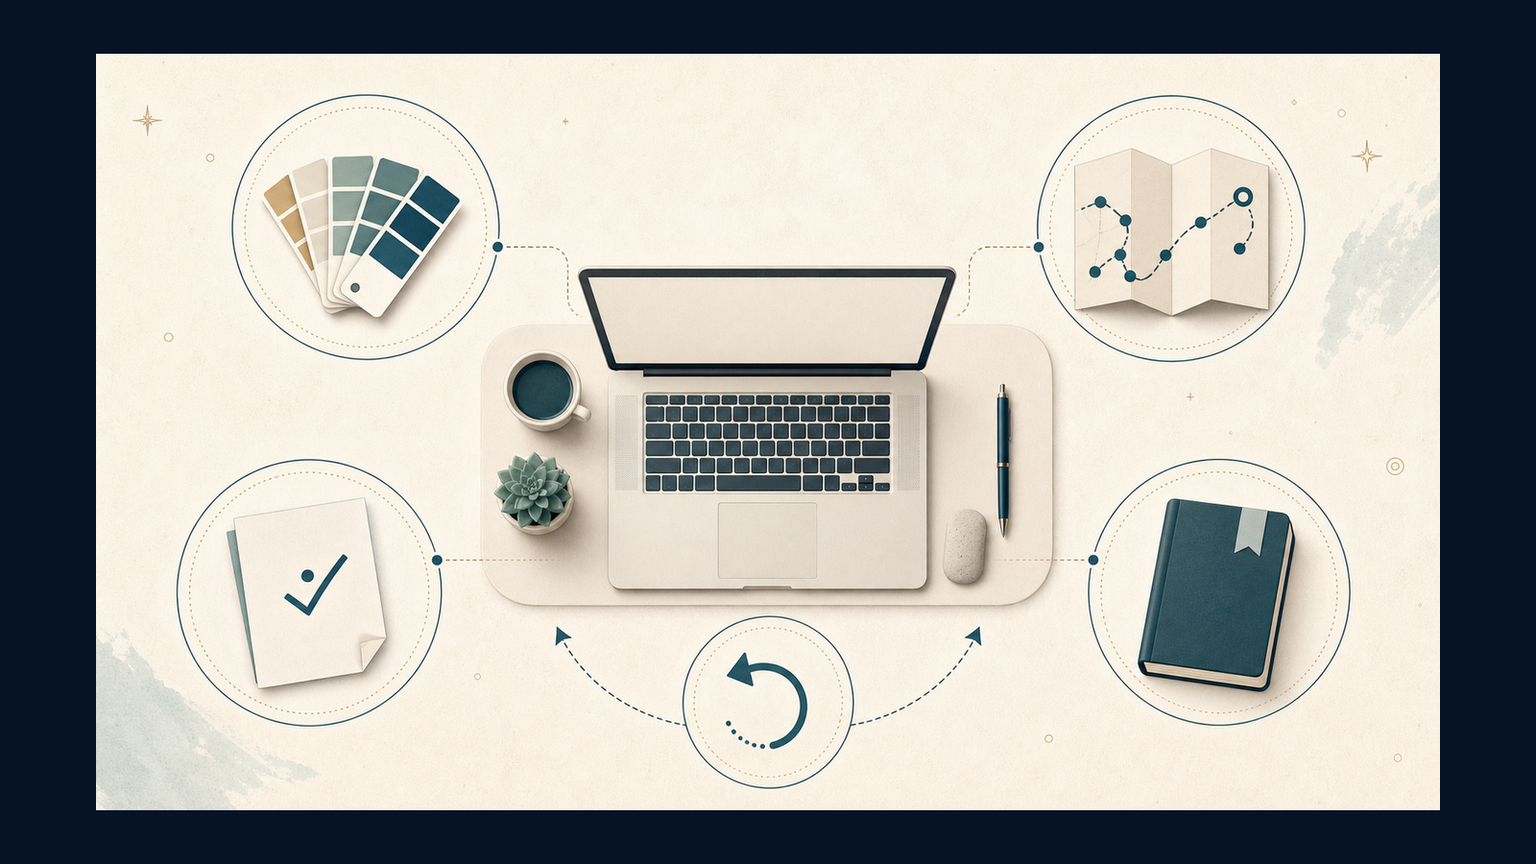
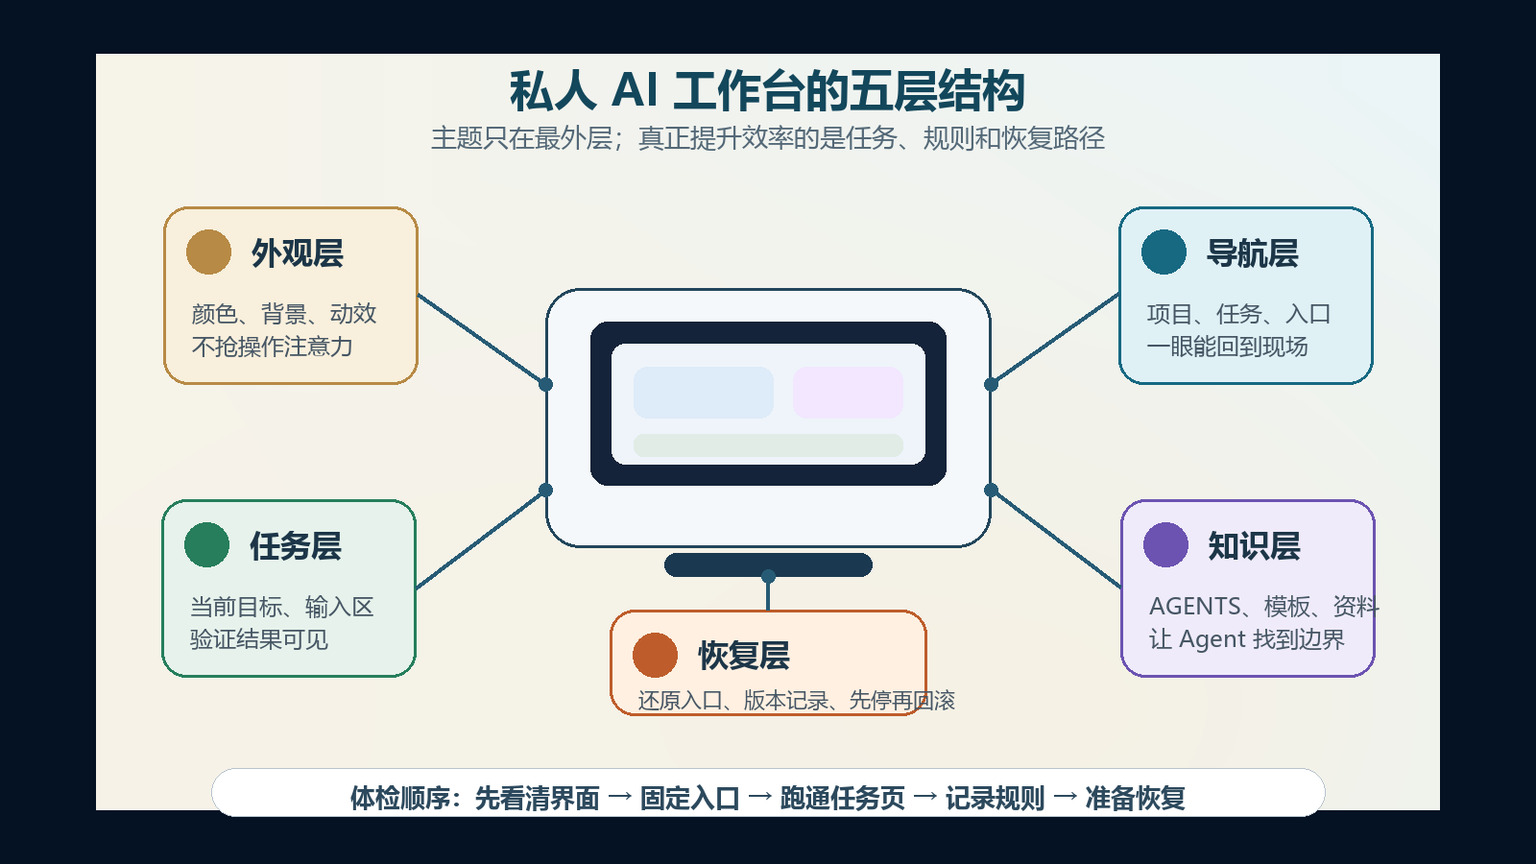
revise Codex personal workspace article

diff --git a/01-工具教程/13-给 Codex 换了一套私人工作台：AI Coding 正在进入个性化时代.md b/01-工具教程/13-给 Codex 换了一套私人工作台：AI Coding 正在进入个性化时代.md
@@ -1,114 +1,137 @@
-> 一句话结论：私人工作台不是把 Codex 变得更花哨，而是让项目、输入、任务状态和恢复入口都更容易找到；皮肤只应服务这件事。
+> 一句话结论：给 Codex 换主题，表面是在换皮肤，本质是在重新整理你的 AI 工作台；真正值得保留的不是好看的背景，而是任务更容易继续、规则更容易找到、异常更容易恢复。
 
-每天反复打开 Codex 后，侧栏、任务页和输入框会慢慢变成工作节奏的一部分。真正拖慢人的，往往不是少一个功能，而是找不到刚才的项目、看不清当前状态，或者担心一次主题更新会打断手上的任务。
+如果你每天都要打开 Codex，界面会慢慢变成工作习惯的一部分。
 
-这也是 AI 工具需要私人空间的原因。它不只是你的视觉偏好，还应该帮你保留注意力、减少切换，并在异常时回到可靠状态。
+最开始你可能只在意它好不好看。用久之后，真正影响效率的会变成另外几件事：项目入口是不是清楚，输入框是不是顺手，当前任务有没有被打断，出问题时能不能回到默认状态。
 
-![个性化工作台的主题视觉示例](<../08-素材库/图片/正文插图/13-给 Codex 换了一套私人工作台：AI Coding 正在进入个性化时代-正文插图04.png>)
-
-*图 1：主题视觉只是一层，核心仍是任务可见、输入顺手和恢复可控。*
-
-## 一、故事开场：AI 工具为什么需要私人空间
-
-同一个 Codex 界面，有人打开后马上能继续昨天的任务，有人却要先找项目、找输入框、找上下文。差别不在于谁的背景图更漂亮，而在于工作台有没有把高频动作放在清楚、稳定的位置。
-
-私人空间的价值可以落在四件小事上：
-
-1. 一眼定位： 当前项目、任务状态、输入区域和发送入口不需要反复寻找。
-2. 减少干扰： 背景、颜色和动画不抢正文与操作区的注意力。
-3. 保留上下文： 常用项目、任务模板和规则入口有固定位置。
-4. 随时恢复： 主题异常或客户端升级后，能先回到原始界面，再继续排查。
-
-如果一套皮肤不能让这四件事更轻松，它再适合截图，也未必适合日常使用。
-
-## 二、一个趋势：AI Coding 进入个性化时代
-
-AI Coding 的个性化，不该只理解成颜色、壁纸和字体。真正值得投入的是把工作环境调成适合自己推进任务的样子：人能快速看清任务，Agent 能找到项目规则，出现问题时双方都有明确的停止和恢复路径。
-
-对个人来说，这是一套更顺手的桌面；对长期使用 Agent 的人来说，它还是一套可发现的工作上下文。项目入口、任务模板、`AGENTS.md`、验证命令和重要资料如果分散在各处，界面再好看也不能减少真正的协作成本。
-
-所以，皮肤是入口，工作流才是长期收益。下一篇 [《Hermes Agent 新手快速上手：从安装到跑通第一个 Agent》](<14-Hermes Agent 新手快速上手：从安装到跑通第一个 Agent.md>) 讲的正是工作台另一面：怎样让 Agent 在明确边界内读取、验证和交接工作。
-
-## 三、Dream Skin 是什么
-
-Dream Skin 是 Codex 的第三方主题项目，不是官方功能。它提供主题、背景和更个人化的视觉层，但不会替你完成模型选择、权限确认、任务拆分或结果验收。
-
-把它放在外观层最合适：它应该帮助阅读、定位和输入，而不是覆盖原有的信息层级。项目当前 README 说明，普通用户优先使用 [Release 页面](https://github.com/Fei-Away/Codex-Dream-Skin/releases) 提供的图形安装包；准备参与开发时，才需要进入源码、依赖和构建流程。
-
-这也是为什么安装前先分清两类需求：
-
-- 日常使用： 只安装发布包、选主题、在空白任务中验证。
-- 参与开发： 才关心仓库、依赖、构建和调试。
-
-不要为了换一套主题，把自己带进并不需要的开发环境。
-
-![矿工猫主题工作台主页示例](<../08-素材库/图片/正文插图/13-给 Codex 换了一套私人工作台：AI Coding 正在进入个性化时代-正文插图06-矿工猫主页.jpg>)
-
-*图 2：首页适合判断导航与输入区是否仍然清楚。*
-
-## 四、我的实际体验：用任务页而不是截图判断
-
-判断主题是否值得保留，我不看宣传图，直接打开一个空白任务页，做下面三项检查：
-
-1. 导航是否清楚： 左侧项目、任务列表和当前选中状态能否一眼分辨。
-2. 输入是否顺手： 输入框、发送入口和回显区域是否始终可见，文字对比是否足够。
-3. 长内容是否稳定： 打开任务卡、滚动较长内容、回到输入区时，布局是否仍然清楚。
-
-![矿工猫主题任务页视觉示例](<../08-素材库/图片/正文插图/13-给 Codex 换了一套私人工作台：AI Coding 正在进入个性化时代-正文插图07-矿工猫任务页.jpg>)
-
-*图 3：真正的判断场景是任务页，而不是单张主题截图。*
-
-有一项不稳定，就先停止加背景、改参数或导入更多素材。先把问题定位在一个最小环境里，后面升级才有依据。
-
-## 五、为什么不是简单换背景
-
-背景只是视觉的一部分。真正的个人工作台至少有五层：外观、导航、任务、知识和恢复。外观帮你减少视觉噪声；导航帮你回到项目；任务让当前工作可见；知识为人和 Agent 提供规则；恢复确保出问题时不会把重要工作一起带走。
+这也是我重新看 Dream Skin 这类第三方主题工具的原因。它不只是给 AI Coding 工具换一张壁纸，而是在提醒我们：个人 AI 工作台正在从统一界面，走向更适合个人节奏的工作环境。
 
 ![个人 AI 工作台五层结构示意图](<../08-素材库/图片/正文插图/13-给 Codex 换了一套私人工作台：AI Coding 正在进入个性化时代-正文插图08-五层工作台.png>)
 
-*图 4：主题处于最外层，真正决定长期体验的是任务、知识与恢复路径。*
+*图 1：主题只在最外层，长期效率来自导航、任务、知识和恢复路径。*
 
-这五层不需要一次补齐。先让界面清楚，再固定项目入口和任务模板，最后再整理项目规则、验证命令和恢复办法。每加一层，都应该让工作更容易继续，而不是多出一套需要维护的设置。
+## 一、我为什么会重新看 AI 工具的皮肤
 
-## 六、安装教程：用十分钟跑通最小验证
+很多人第一次看到换肤工具，反应都是好看，但没必要。
 
-第 1 步：先退出 Codex 或 ChatGPT 桌面端，保存尚未发送的内容。不要在正在推进的重要任务旁边试主题。
+这个判断不算错。如果只是换背景、改颜色、加一点动效，它确实很容易变成新鲜感。问题是，AI Coding 工具和普通聊天窗口不一样。它承载的是项目、任务、上下文、权限、验证结果和下一步行动。
 
-第 2 步：进入 [Dream Skin Release 页面](https://github.com/Fei-Away/Codex-Dream-Skin/releases)，下载与当前系统匹配的发布安装程序。普通用户按当前 README 所示运行 `CodexDreamSkin-Setup-v*.exe`，无需为了安装主题额外 clone 仓库、安装 Node.js 或手动执行源码脚本。
+一个界面如果让你每次都要重新找项目、找输入框、找历史任务，哪怕模型再强，也会消耗注意力。反过来，如果工作台把常用入口固定好，把当前任务状态放清楚，把恢复路径留出来，人和 Agent 的协作就会顺很多。
 
-第 3 步：重新启动应用，先新建一条空白任务。依次完成输入一段文字、切换项目、打开任务卡、滚动长内容、回到输入区域这五步。
+所以我更关心的问题不是这套皮肤漂亮吗，而是它有没有让工作更容易继续。
 
-第 4 步：最后再导入自己的背景。只使用你拥有或已获授权的 PNG、JPEG 或 WebP；先用低干扰图片确认布局，再决定是否保留更强的视觉效果。
+这也是这篇文章的核心判断：AI Coding 的个性化，不应该止步于外观，而应该服务一套可持续的工作路径。
 
-这套顺序很短，但它把安装、日常使用和素材导入拆开了。出问题时，你能知道问题出在发布包、主题、背景，还是客户端本身。
+## 二、Dream Skin 解决的是哪一层问题
 
-## 七、安全注意事项：异常时先停止，再还原
+Dream Skin 是 Codex 的第三方主题和换肤工具，不是 OpenAI 或 Codex 的官方功能。
 
-Dream Skin 是第三方项目。它的 README 提供了主题包校验、安全 CSS 范围和恢复思路，但这些措施不是对所有风险的绝对保证。来源不明的主题包、脚本和图片，仍然不应该直接导入工作环境。
+按项目 README 和 Release 页面信息，截至 2026-07-28，我看到它的最新 Release 是 v1.5.6，提供 Windows 安装包、macOS 安装包和 SHA256 校验文件。普通用户不需要 clone 源码，也不需要为了换主题额外安装 Node.js；更合适的入口，是从 [GitHub Releases](https://github.com/Fei-Away/Codex-Dream-Skin/releases) 下载当前平台对应的图形安装包。
 
-出现遮挡、错位、卡顿或启动异常时，按这个顺序处理：
+这类工具最适合放在外观层：
 
-1. 停止继续覆盖安装或追加设置。
-2. 使用当前版本提供的还原入口恢复默认外观。
-3. 重启应用，并在空白任务页验证基础界面。
-4. 记录客户端版本、主题版本、问题页面和还原结果。
+1. 调整背景、主题色和视觉氛围。
+2. 降低长时间使用时的视觉疲劳。
+3. 让常用工作区更像自己的桌面。
+4. 在不改官方安装包的前提下，做本地外观增强。
 
-不要凭感觉修改系统目录，也不要让 Agent 直接执行未知的修复命令。若需要排查，先给它只读范围：读取主题目录和日志，列出疑点与建议，不修改文件、不运行安装脚本。
+但它不应该被误解成万能升级。它不会替你拆任务，不会替你确认权限，也不会替你验收结果。主题只是入口，工作流才是收益。
 
-## 八、适合哪些人
+![个性化工作台的主题视觉示例](<../08-素材库/图片/正文插图/13-给 Codex 换了一套私人工作台：AI Coding 正在进入个性化时代-正文插图04.png>)
 
-适合尝试的人，通常已经高频使用 Codex，知道自己最常看的区域，并愿意留出十分钟做空白任务验证。
+*图 2：这张工具界面截图按原文保留，用来观察主题是否影响项目入口、任务区和输入区。*
 
-如果你正在赶交付、基础界面问题还没定位、没有恢复路径，或主题来源不清楚，先不要折腾。此时最有价值的优化不是视觉升级，而是把项目入口、当前任务和重要资料整理到容易找到的位置。
+## 三、判断一套主题值不值得留，看这五层
 
-## 九、未来：每个人都会拥有自己的 AI 工作台
+我建议把私人 AI 工作台拆成五层看。
 
-未来的个人工作台不会只区分代码编辑器、聊天窗口和资料库。它会把常用项目、任务边界、验证方式和个人偏好组织在同一条工作路径上。
+第一层是外观。颜色、背景、透明度和动效都属于这里。它的目标不是抢眼，而是不干扰你看正文、看任务状态和输入内容。
 
-其中一部分属于界面：让人看得清楚、用得顺手；另一部分属于规则：让 Agent 知道该读什么、能改什么、交付后怎样验证。两者缺一个，所谓个性化都容易退回成短暂的新鲜感。
+第二层是导航。项目、任务列表、当前选中状态、搜索入口和新任务入口要能一眼找到。高频使用时，找不到入口比不好看更伤效率。
 
-## 十、总结：今天先做一次工作台体检
+第三层是任务。输入框、发送入口、长内容滚动、任务卡和回到输入区的路径要稳定。你真正工作的地方不是背景图，而是任务页。
 
-今天不必追求一整套复杂主题。只做四件事：确认主题来自哪里，完成一次空白任务验证，记下恢复入口，把常用项目和规则放到固定位置。
+第四层是知识。对 Codex 来说，这一层尤其重要：AGENTS.md、常用模板、验证命令、项目说明和素材目录，应该让人能找到，也让 Agent 能读到。
 
-完成后，再决定这套皮肤是否值得留下。真正好的私人工作台，不会让你多花时间照顾它，而会让你更快回到正在做的事。
+第五层是恢复。第三方工具最怕没有退路。安装前要知道怎么退出、怎么还原默认外观、怎么记录版本，异常时先停下来，而不是继续覆盖安装。
+
+只满足第一层，叫换皮肤。五层都被照顾到，才更接近私人工作台。
+
+## 四、十分钟最小验证，比反复调参数更重要
+
+安装主题后，我不会马上导入复杂背景，也不会一口气改很多设置。更稳的做法是先跑一次空白任务验证。
+
+你可以按这个顺序做：
+
+1. 保存手头内容，退出 Codex 或 ChatGPT 桌面端。
+2. 从官方项目的 Release 页面下载对应平台安装包。
+3. 重新启动应用，先新建一条空白任务。
+4. 输入一段普通文字，确认输入框、发送入口和回显区域清楚可见。
+5. 切换项目，打开任务卡，滚动一段长内容，再回到输入区。
+6. 找到主题还原入口，确认异常时知道怎样回到默认外观。
+
+这个流程看起来简单，但它能把问题拆开。出错时，你能判断是安装包、主题包、背景图，还是客户端本身的问题。
+
+如果这六步都稳定，再去调背景、换配色、导入主题包。这样不会为了追求一张截图，把真正的工作环境弄乱。
+
+![矿工猫主题工作台主页示例](<../08-素材库/图片/正文插图/13-给 Codex 换了一套私人工作台：AI Coding 正在进入个性化时代-正文插图06-矿工猫主页.jpg>)
+
+*图 3：首页更适合检查导航、项目入口和整体视觉噪声。*
+
+## 五、任务页才是最终考场
+
+宣传图通常很好看，但日常使用的压力不在宣传图里。
+
+真正要看的，是任务页。
+
+我会重点看三件事：
+
+1. 当前任务是否突出。长标题、长回复、历史上下文堆在一起时，仍然能看清现在该处理什么。
+2. 输入区域是否稳定。滚动长内容后，输入框和发送入口不能被背景、透明度或视觉元素干扰。
+3. 验证结果是否可读。命令输出、错误提示、文件路径、图片预览这些信息，不能因为主题变得更难辨认。
+
+如果一套主题在任务页不稳定，就先别继续美化。AI Coding 的核心场景不是展示桌面，而是完成任务。任务页看不清，主题就已经越界了。
+
+![矿工猫主题任务页视觉示例](<../08-素材库/图片/正文插图/13-给 Codex 换了一套私人工作台：AI Coding 正在进入个性化时代-正文插图07-矿工猫任务页.jpg>)
+
+*图 4：任务页是判断主题是否适合长期使用的关键场景。*
+
+## 六、第三方工具要保留边界感
+
+Dream Skin 这类工具的价值很明确：让本地客户端拥有更高的个性化空间。它的风险也很明确：主题包、图片、CSS、安装器和本地注入机制，都需要使用者自己保留判断。
+
+我的原则是四句话：
+
+1. 只从项目官方入口下载，不从不明网盘或二次打包站下载。
+2. 只导入自己有权使用的背景图，不把来源不清的人像、品牌或截图做成公开素材。
+3. 先在空白任务中验证，不在赶交付的关键任务旁边试新主题。
+4. 发现遮挡、错位、卡顿或启动异常，先还原默认外观，再记录版本和问题页面。
+
+尤其不要让 Agent 在没有授权的情况下直接运行未知安装脚本，或者修改系统目录。需要排查时，先给只读任务：看目录、看日志、列疑点、给建议，不直接修。
+
+这不是保守，而是把好看的东西放进可控范围里。
+
+## 七、哪些人适合现在尝试
+
+适合尝试的人，大多已经高频使用 Codex，也知道自己最常看的区域是什么。
+
+如果你每天都要在几个项目之间切换，经常复用 AGENTS.md、模板和验证命令，又希望工作台更有个人识别度，那换主题值得试一轮。
+
+如果你还在熟悉基础功能，或者正在赶一个不能中断的交付，那就先别折腾皮肤。你更应该先整理项目入口、任务命名、常用规则和恢复办法。等这些东西稳定后，再做外观升级，收益会更明显。
+
+下一篇 [《Hermes Agent 新手快速上手：从安装到跑通第一个 Agent》](<14-Hermes Agent 新手快速上手：从安装到跑通第一个 Agent.md>) 会继续聊工作台的另一面：当界面顺手之后，怎样让 Agent 在明确边界内读取、验证和交接任务。
+
+## 八、今天可以先做一次工作台体检
+
+如果你也想试试，不必一上来追求完整改造。
+
+今天只做四件事就够了：
+
+1. 确认工具来源和当前版本。
+2. 跑通一次空白任务验证。
+3. 记下还原默认外观的入口。
+4. 把常用项目、规则和模板放到固定位置。
+
+做完这四步，再决定要不要继续换背景、调配色、导入更多主题。
+
+真正好的私人工作台，不会让你花更多时间照顾它。它会安静地把入口、任务、规则和退路放好，让你更快回到正在做的事。

diff --git a/07-资料与流程/文章质量分级表.md b/07-资料与流程/文章质量分级表.md
@@ -43,7 +43,7 @@
 | [别只盯 GPT-5.6：真正值得关注的是工作入口 Agent 化](<../06-热点追踪/07-别只盯 GPT-5.6：真正值得关注的是工作入口 Agent 化.md>) | 热点追踪 | 已改为工作入口 Agent 化的常青分析，发布前仍需复核时间边界。 | 进入正常发布池；发布时重点适配标题、封面和配图。 |
 | [我用 AI 做了一次深度行业调研：从找资料到可核查报告](<../05-案例实战/10-我用 AI 做了一次深度行业调研：从找资料到可核查报告.md>) | 案例实战 | 行业调研链路和可追溯方法明确，适合做案例发布。 | 进入正常发布池；发布时重点适配标题、封面和配图。 |
 | [OpenClaw 新手上手指南：把 AI 助手接进常用聊天软件](<../01-工具教程/11-OpenClaw 新手上手指南：把 AI 助手接进常用聊天软件.md>) | 工具教程 | OpenClaw 接入路径、适用场景和边界说明完整，适合新手教程。 | 进入正常发布池；发布时重点适配标题、封面和配图。 |
-| [给 Codex 换了一套私人工作台：AI Coding 正在进入个性化时代](<../01-工具教程/13-给 Codex 换了一套私人工作台：AI Coding 正在进入个性化时代.md>) | 工具教程 | 从换肤工具扩展到 AI Coding 个性化工作台趋势，兼顾场景、安装闭环与安全边界。 | 进入正常发布池；发布时重点确认标题、封面、正文图和回滚提醒。 |
+| [给 Codex 换了一套私人工作台：AI Coding 正在进入个性化时代](<../01-工具教程/13-给 Codex 换了一套私人工作台：AI Coding 正在进入个性化时代.md>) | 工具教程 | 从 Dream Skin 换肤切入，升级为私人 AI 工作台五层结构、十分钟验证和第三方工具边界。 | 进入正常发布池；发布前重点人工确认工具截图授权、Dream Skin 版本信息和还原路径。 |
 | [Hermes Agent 新手快速上手：从安装到跑通第一个 Agent](<../01-工具教程/14-Hermes Agent 新手快速上手：从安装到跑通第一个 Agent.md>) | 工具教程 | Hermes Agent 安装、模型、会话恢复、Skills/Gateway 边界和来源链接完整，适合工具教程发布。 | 进入正常发布池；发布时重点适配标题、封面和配图。 |
 
 ## 五、B 级：待精修级

diff --git a/07-资料与流程/文章资产登记表.md b/07-资料与流程/文章资产登记表.md
@@ -19,5 +19,5 @@
 | 10 | 我用 AI 做了一次深度行业调研：从找资料到可核查报告 | 案例实战 | AI学习与应用案例 | 行业调研, 资料核查, 报告 | `05-案例实战/10-我用 AI 做了一次深度行业调研：从找资料到可核查报告.md` | 3015 | 已整合入库  | 待上线 |
 | 11 | OpenClaw 新手上手指南：把 AI 助手接进常用聊天软件 | 工具教程 | AI工具连接与系统 | OpenClaw, AI Agent, Gateway | `01-工具教程/11-OpenClaw 新手上手指南：把 AI 助手接进常用聊天软件.md` | 3207 | 已整合入库  | 待上线 |
 | 12 | Codex 不只是写代码：从 0 到 1 搭建使用帮助知识库 | 案例实战 | Codex入门与工程化 | Codex, 知识库, 工作流 | `05-案例实战/12-Codex 不只是写代码：从 0 到 1 搭建使用帮助知识库.md` | 3183 | 已整合入库  | 待上线 |
-| 13 | 给 Codex 换了一套私人工作台：AI Coding 正在进入个性化时代 | 工具教程 | Codex入门与工程化 | Codex, AI Coding, 个性化工作台 | `01-工具教程/13-给 Codex 换了一套私人工作台：AI Coding 正在进入个性化时代.md` | 2399 | 已整合入库  | 待上线 |
+| 13 | 给 Codex 换了一套私人工作台：AI Coding 正在进入个性化时代 | 工具教程 | Codex入门与工程化 | Codex, AI Coding, 个性化工作台 | `01-工具教程/13-给 Codex 换了一套私人工作台：AI Coding 正在进入个性化时代.md` | 2264 | 已整合入库  | 待上线 |
 | 14 | Hermes Agent 新手快速上手：从安装到跑通第一个 Agent | 工具教程 | AI工具连接与系统 | Hermes Agent, AI Agent, 工具教程 | `01-工具教程/14-Hermes Agent 新手快速上手：从安装到跑通第一个 Agent.md` | 2304 | 已整合入库  | 待上线 |

diff --git a/07-资料与流程/图片生成记录.md b/07-资料与流程/图片生成记录.md
@@ -386,3 +386,11 @@
   - 08-素材库/图片/官方工具截图/hermes-zh-quick-reference.png
   - 08-素材库/图片/官方工具截图/hermes-zh-next-layer.png
 - boundary: 不再保留英文官方截图底图；不伪造 OpenAI Codex 或 Hermes 的中文界面。Codex 相关段落仅用图注说明交接逻辑。
+
+## 2026-07-28 - 第 13 篇 article-wechat v2.9 重构配图
+
+- 文章：`01-工具教程/13-给 Codex 换了一套私人工作台：AI Coding 正在进入个性化时代.md`
+- 封面：`08-素材库/图片/文章封面/13-给 Codex 换了一套私人工作台：AI Coding 正在进入个性化时代-封面.png`，确定性绘图与中文排版，2.35:1，2350 × 1000。
+- 正文图：重绘 `08-素材库/图片/正文插图/13-给 Codex 换了一套私人工作台：AI Coding 正在进入个性化时代-正文插图08-五层工作台.png`，16:9，1600 × 900。
+- 保留图：正文插图04、正文插图06、正文插图07 为 Codex/ChatGPT 工具界面或用户主题实测截图，本轮按要求不替换。
+- 版权边界：封面与五层结构图为本地确定性原创示意图，不伪造官方界面、不使用品牌 Logo；工具截图仅作为文章内实测说明，发布前仍需人工确认来源、脱敏和展示授权。
